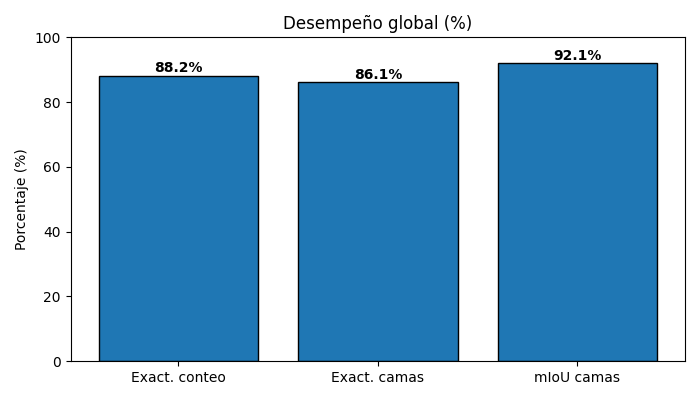
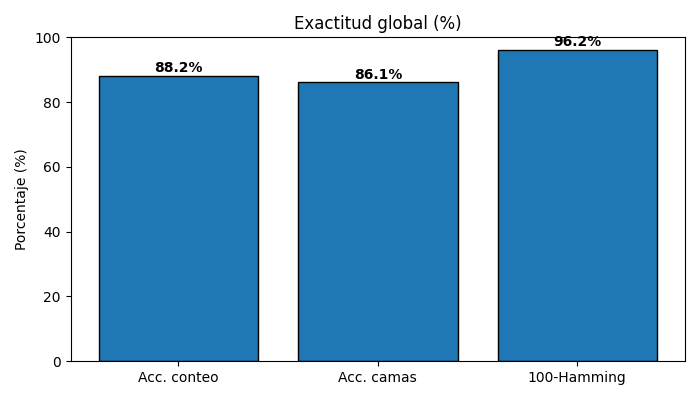
finish analysis

diff --git a/analysis/analysis.py b/analysis/analysis.py
@@ -7,8 +7,8 @@ import numpy as np
 import matplotlib.pyplot as plt
 import os
 
-PREDS        = "RESULTADO_CSV.csv"   # ← CSV que genera tu modelo
-GROUND_TRUTH = "ground_truth.csv"    # ← CSV con valores correctos
+PREDS        = "RESULTADO_CSV.csv"   # CSV que genera tu modelo
+GROUND_TRUTH = "ground_truth.csv"    # CSV con valores correctos
 
 # ----------------------------------------------------------------------
 # Función auxiliar
@@ -37,7 +37,7 @@ df = pd.merge(df_gt, df_pred, on="filename", how="inner", validate="one_to_one")
 err_counts           = []
 correct_count_flags  = []
 correct_beds_flags   = []
-iou_beds_list        = []       # ← NUEVA lista para IoU de camas
+hamming_list         = []      # ← lista para Hamming Loss por imagen
 
 for _, row in df.iterrows():
     # ---------- Conteo ----------
@@ -51,36 +51,35 @@ for _, row in df.iterrows():
     pred_beds = parse_beds_str(row["beds"])
     correct_beds_flags.append(int(pred_beds == true_beds))
 
-    # IoU de camas
-    if not true_beds and not pred_beds:        # ambos vacíos
-        iou = 1.0
-    else:
-        inter = true_beds & pred_beds
-        union = true_beds | pred_beds
-        iou = len(inter) / len(union) if union else 0.0
-    iou_beds_list.append(iou)
+    # Hamming Loss por imagen  (camas mal etiquetadas / 4)
+    hamming_img = len(true_beds ^ pred_beds) / 4    # XOR
+    hamming_list.append(hamming_img)
 
-# Añadimos columnas al DataFrame
+# Guardamos columnas nuevas
 df["err_count"]     = err_counts
 df["correct_count"] = correct_count_flags
 df["correct_beds"]  = correct_beds_flags
-df["iou_beds"]      = iou_beds_list            # ← NUEVA columna
+df["hamming"]       = hamming_list
 
 # ----------------------------------------------------------------------
 # 4. Estadísticos globales
 # ----------------------------------------------------------------------
 N               = len(df)
 mae_count       = np.mean(err_counts)
+rmse_count      = np.sqrt(np.mean(np.square(err_counts)))
+mape_count      = np.mean(np.array(err_counts) / (df["true_n_cows"] + 1e-9)) * 100
 accuracy_count  = np.mean(correct_count_flags) * 100
 accuracy_beds   = np.mean(correct_beds_flags)  * 100
-miou_beds       = np.mean(iou_beds_list)       * 100   # en %
+hamming_loss    = np.mean(hamming_list)        * 100   # en %
 
 summary_dict = {
     "N imágenes"             : N,
     "MAE conteo vacas"       : round(mae_count, 3),
+    "RMSE conteo"            : round(rmse_count, 3),
+    "MAPE conteo (%)"        : round(mape_count, 2),
     "Exactitud conteo (%)"   : round(accuracy_count, 2),
     "Exactitud camas (%)"    : round(accuracy_beds, 2),
-    "mIoU camas (%)"         : round(miou_beds, 2)     # ← NUEVA fila
+    "Hamming Loss camas (%)" : round(hamming_loss, 2),
 }
 
 # ----------------------------------------------------------------------
@@ -88,16 +87,18 @@ summary_dict = {
 # ----------------------------------------------------------------------
 print("=== RESUMEN GLOBAL ===")
 for k, v in summary_dict.items():
-    print(f"{k:<20}: {v}")
-print("\nDetalle por imagen:")
-print(df.head())   # muestra las primeras filas; quita o ajusta según necesites
+    print(f"{k:<25}: {v}")
+print("\nPrimeras filas del detalle:")
+print(df.head())
 
 # ----------------------------------------------------------------------
-# 6. Gráficos (opcional)
+# 6. Gráficos
 # ----------------------------------------------------------------------
 # 6.1 Histograma del error de conteo
 plt.figure(figsize=(8, 5))
-plt.hist(err_counts, bins=range(0, max(err_counts)+2), edgecolor="black", align="left")
+plt.hist(err_counts,
+         bins=range(0, max(err_counts) + 2),
+         edgecolor="black", align="left")
 plt.title("Distribución del error absoluto en conteo de vacas")
 plt.xlabel("Error (|pred − true|)")
 plt.ylabel("Frecuencia")
@@ -106,25 +107,26 @@ plt.tight_layout()
 plt.savefig("histograma_error_conteo.png")
 plt.close()
 
-# 6.2 Barras con exactitudes y mIoU
-labels = ["Exact. conteo", "Exact. camas", "mIoU camas"]
-values = [accuracy_count, accuracy_beds, miou_beds]
+# 6.2 Barras con métricas principales (los valores “altos son mejores”)
+labels = ["Acc. conteo", "Acc. camas", "100-Hamming"]
+values = [accuracy_count, accuracy_beds, 100 - hamming_loss]
 
 plt.figure(figsize=(7, 4))
 plt.bar(labels, values, edgecolor="black")
 plt.ylim(0, 100)
 for i, v in enumerate(values):
     plt.text(i, v + 1, f"{v:.1f}%", ha="center", fontweight="bold")
-plt.title("Desempeño global (%)")
+plt.title("Exactitud global (%)")
 plt.ylabel("Porcentaje (%)")
 plt.tight_layout()
 plt.savefig("metricas_globales.png")
 plt.close()
 
-# 6.3 Guardar DataFrame completo (con IoU) si quieres revisarlo en Excel
+# 6.3 Guardar DataFrame con todas las métricas
 df.to_csv("metricas_detalladas.csv", index=False)
 
 print("\nSe han creado los archivos:")
 print("  • histograma_error_conteo.png")
 print("  • metricas_globales.png")
 print("  • metricas_detalladas.csv")
+
